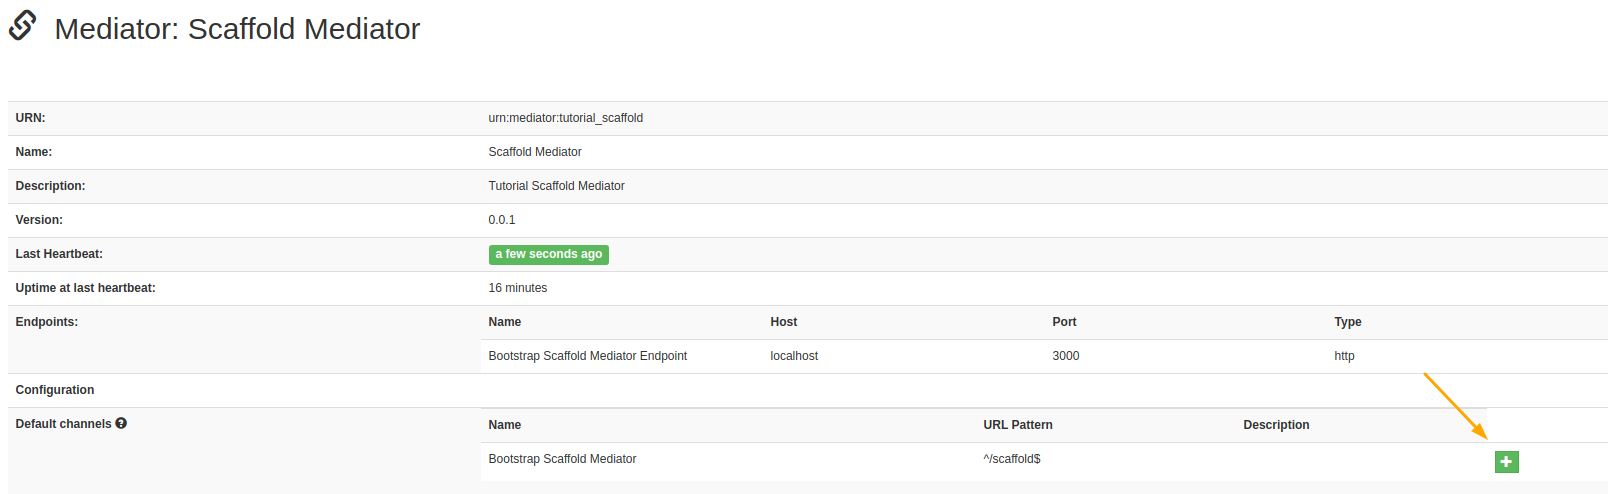
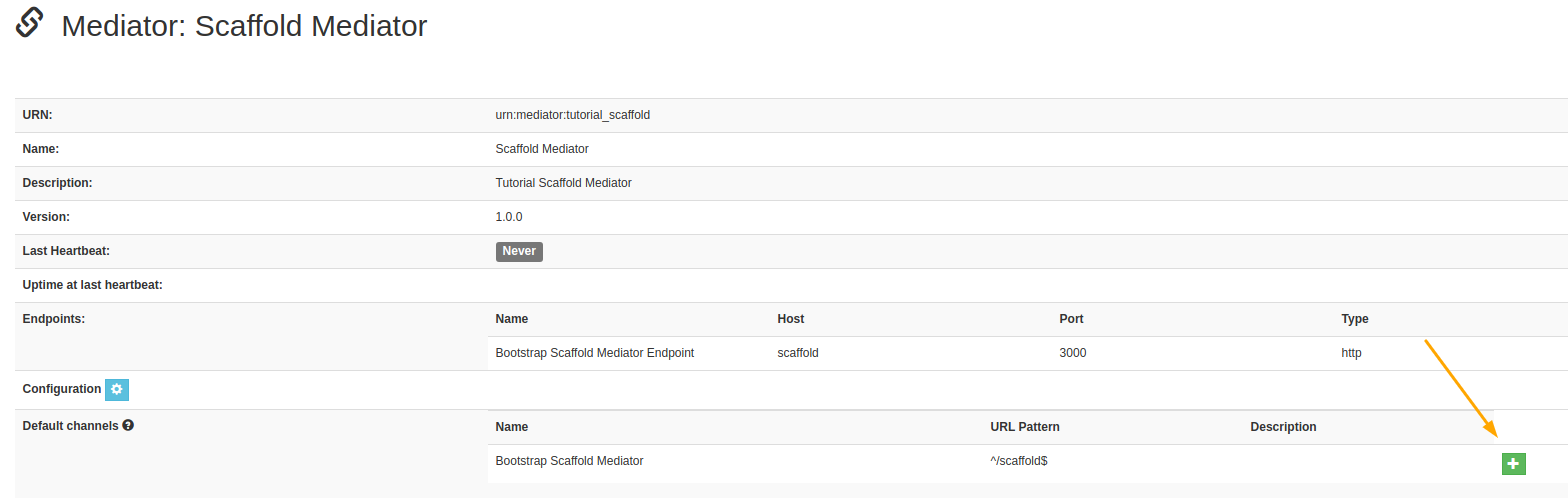
Add tutorials steps detailing openHIM transactions
Show the flow of requests and responses from client to endpoint and back
via the OpenHIM

OHM-812

diff --git a/1_Scaffold_OpenHIM_Mediator.md b/1_Scaffold_OpenHIM_Mediator.md
@@ -184,8 +184,10 @@ docker build -t scaffold .
 
 docker network ls
 
-docker run --network tutorial_openhim --rm -p 3000:3000 scaffold
+docker run --network tutorial_openhim --name scaffold --rm -p 3000:3000 scaffold
 ```
+
+> **Important!** Remember to use the `--name` flag. The name is required to allow the different containers to reference each other.
 
 Check that your mediator has registered correctly by navigating to the OpenHIM Console Mediator Page on `https://localhost:9000/#!/mediators`
 
@@ -193,7 +195,46 @@ Check that your mediator has registered correctly by navigating to the OpenHIM C
 
 ---
 
-### Step 3 - Adding Mediator Heartbeat
+### Step 3 - Adding Default Channel
+
+Next we can setup the default channel. On the Mediators page in the Console, click on the mediator row. This page contains more details about the scaffold mediator. The bottom row describes the available default channel. Click the green plus icon on the right hand bottom corner to create this channel.
+
+![Mediator Details. Add Default Channel](images/mediatorDetails.png)
+
+Once the channel is created navigate to the Channels Menu option to view the Channel. To view the channel details you can click on yellow edit icon on the channel. All the details here are already correct as they were set in the `mediatorConfig.json` file. Navigate to the Routes tab in the modal and click on the yellow edit route icon to view route details.
+
+![Channel Route Details](images/routeDetails.png)
+
+The Route defines where a client's request will be directed. Since we are running the scaffold mediator in a `docker container` we have provided the docker container name as the route `host` variable. `Docker` will resolve requests to the correct IP.
+
+---
+
+### Step 4 - Sending Through First Request Via OpenHIM
+
+With our scaffold mediator channel route setup we can send through our first request that will be tracked by the OpenHIM.
+In a terminal run the following `cURL` command:
+
+```sh
+curl -X GET http://localhost:5001/scaffold -H "Authorization: Basic $(echo -n test:test | base64)"
+```
+
+**Hello World** should come through in the terminal response. To view the request and response details navigate to the OpenHIM Console [Transactions Log](http://localhost:9000/#!/transactions) page. Here you should see your first scaffold mediator transaction.
+
+![First Transaction](images/transaction.png)
+
+Click on this transaction to view details about it.
+
+![Transaction Details](images/transactionDetails.png)
+
+The transaction here was Successful, it went through the Bootstrap Scaffold Mediator Channel, and the client was our `test` client. If needed this transaction could be rerun by clicking the Re-run Transaction button. This would send through the exact same request details and keep a record of the original transaction and any child transactions with all their respective results.
+
+The transaction response and `orchestrations` in the transaction can be updated through the OpenHIM API at a later time if necessary. This is useful for asynchronous requests.
+
+> For example, in a hypothetical system our endpoint information system has a slow processing speed yet, during peak times, our system sends through more requests than the end system can handle. To solve this we could input a [file-queue mediator](https://github.com/jembi/openhim-mediator-file-queue) between the OpenHIM and an orchestration mediator that would store all requests from the client and slowly feed them through to the endpoint via the orchestrator when the endpoint is ready. At the same time, the OpenHIM could respond to the client indicating that the `file-queue mediator` received the request. Each time the client's request gets a response from a mediator this would be added to the list of orchestrations along the request and response details. When the final response is received the transaction can be updated to reflect the overall status of that transaction. ie: Successful, Failed, Completed, or Completed with Errors.
+
+---
+
+### Step 4 - Adding Mediator Heartbeat
 
 To add a mediator heartbeat, import the `activateHeartbeat` method form `openhim-mediator-utils`. This function takes in the `openhimConfig` option set to instantiate as well as the mediator's `urn` within that object. Therefore, to keep the file neat let's import the `urn` from `mediatorConfig` and add this variable to the openhimConfig object. Instantiate the `activateHeartbeat` method within the `app.listen`. The `index.js` file should now resemble this:
 
@@ -235,7 +276,7 @@ registerMediator(openhimConfig, mediatorConfig, err => {
 
 ---
 
-### Step 4 - Fetching Mediator Configuration from openHIM
+### Step 5 - Fetching Mediator Configuration from openHIM
 
 To enable the OpenHIM to store console editable configuration details, we need to provide the template for these details within the `mediatorConfig.json` file. Add the following config template information beneath the **endpoints** entry within the `mediatorConfig.json`.
 
@@ -288,7 +329,7 @@ Back in your terminal rebuild the scaffold mediator docker image and start the c
 ```sh
 docker build -t scaffold .
 
-docker run --network tutorial_openhim --rm -p 3000:3000 scaffold
+docker run --network tutorial_openhim --rm --name scaffold -p 3000:3000 scaffold
 ```
 
 The terminal output should be:
@@ -323,7 +364,7 @@ Rebuild and start the new container. Your old config entries should be in the te
 ```sh
 docker build -t scaffold .
 
-docker run --network tutorial_openhim --rm -p 3000:3000 scaffold
+docker run --network tutorial_openhim --rm --name scaffold -p 3000:3000 scaffold
 ```
 
 Go to the mediators page and click the blue gear icon to edit the mediator config. Enter some new data in the fields and save changes. This will emit a `config` event which will now be picked up by the mediator.
